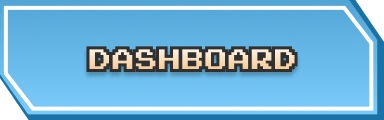
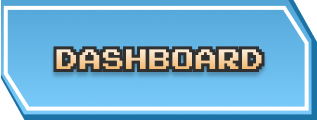
navbar styling

diff --git a/client/src/app/components/navbar.tsx b/client/src/app/components/navbar.tsx
@@ -32,28 +32,30 @@ export default function Navbar() {
 
         <div className="flex justify-evenly font-bold">
           <a href="/dashboard">
-            <Image src={dashboard} alt="Dashboard" width={200} height={40} className="hover:opacity-80 px-2 drop-shadow" />
+            <Image src={dashboard} alt="Dashboard" width={170} height={40} className="hover:opacity-80 px-2 drop-shadow" />
           </a>
           <a href="/add-card">
-            <Image src={addCard} alt="Add Card" width={200} height={40} className="hover:opacity-80 px-2 drop-shadow" />
+            <Image src={addCard} alt="Add Card" width={170} height={40} className="hover:opacity-80 px-2 drop-shadow" />
           </a>
           <a href="/gift-request">
-            <Image src={giftRequest} alt="Gift & Request" width={200} height={40} className="hover:opacity-80 px-2 drop-shadow" />
+            <Image src={giftRequest} alt="Gift & Request" width={170} height={40} className="hover:opacity-80 px-2 drop-shadow" />
           </a>
           <a href="/transactions">
-            <Image src={trans} alt="Trans" width={200} height={40} className="hover:opacity-80 px-2 drop-shadow" />
+            <Image src={trans} alt="Trans" width={170} height={40} className="hover:opacity-80 px-2 drop-shadow" />
           </a>
           {name && (
-            <a className="text-xs font-mono px-4 py-1 ml-4 hover:opacity-80 
-                          text-gray-800 drop-shadow text-center flex items-center"
+            <a className="text-xs font-mono px-6 mx-2 py-1 hover:opacity-80
+                          text-white drop-shadow text-center flex items-center"
               style={{
                 backgroundImage: `url(${nameBg.src})`,
                 backgroundSize: "100% 100%",
-                width: "240", height: "40",
+                width: "170", height: "40",
               }}
               href="/profile"
             >
-              {name}
+              <p className="drop-shadow">
+                {name}
+              </p>
             </a>
           )}
 
